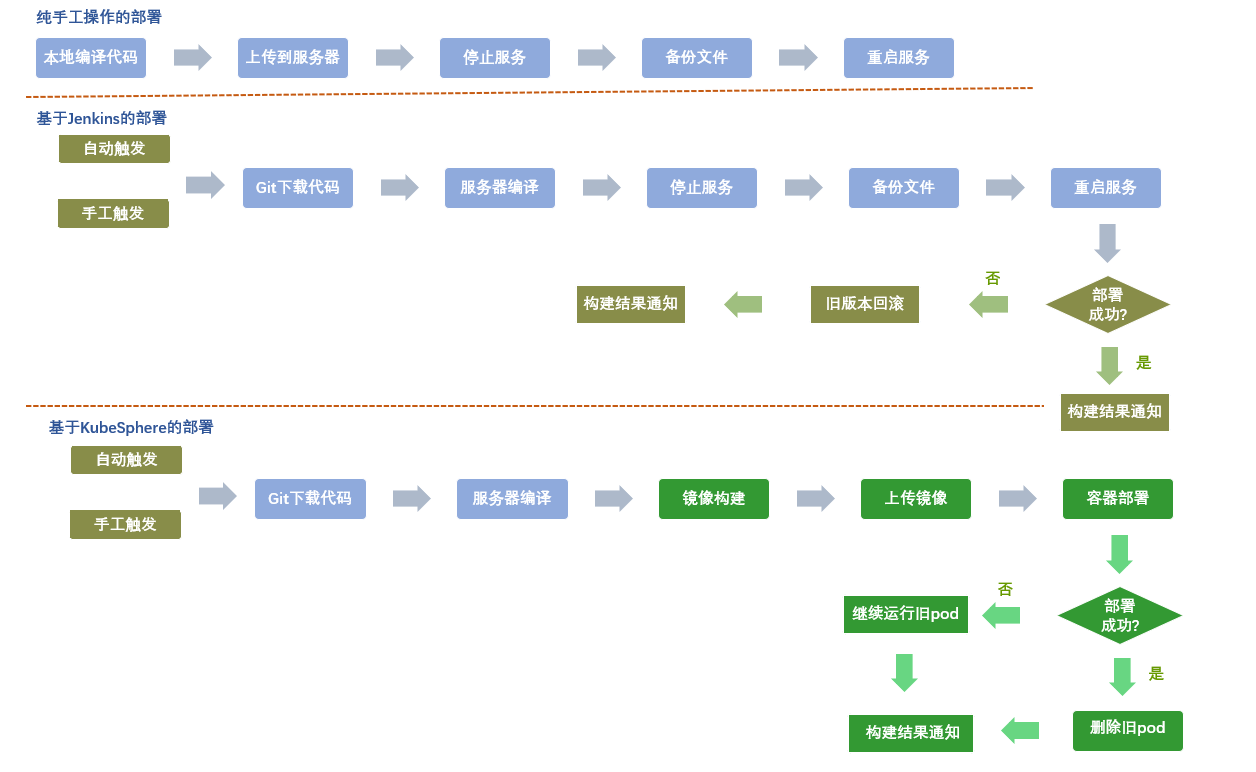
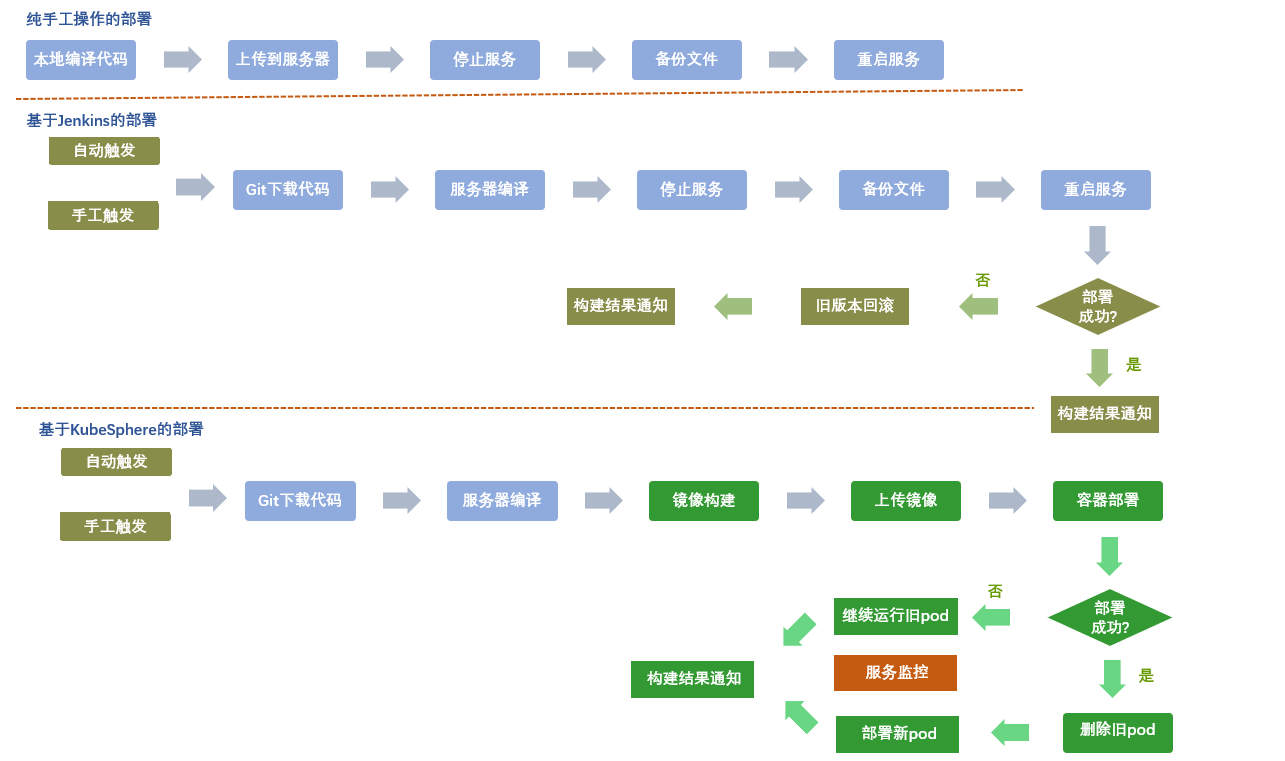
更新博文

Changed region(s): [[0.0, 0.0, 0.9626, 0.9974]]

diff --git a/content/post/devops/share-kubepshere-using-experience-for-current-company.md b/content/post/devops/share-kubepshere-using-experience-for-current-company.md
@@ -13,7 +13,7 @@ author: "Rosen Lu"
 # P.S. comment can only be closed
 comment: true
 toc: true
-autoCollapseToc: false
+autoCollapseToc: true
 postMetaInFooter: false
 hiddenFromHomePage: false
 # You can also define another contentCopyright. e.g. contentCopyright: "This is another copyright."
@@ -57,20 +57,66 @@ sequenceDiagrams:
 * 缺乏监控功能，后续不同团队、项目采用的监控方案不统一，不利于知识的积累
 * 不同客户的定制化功能太多(logo,字体，ip地址，业务逻辑等)，采用手工打包的方式效率低，容易遗漏
 
-基于上述原因，部门准备选用网络上开源的系统来尽可能的解决上述痛点，在技术选型时有如下考量点：
+在竞争日益激烈的市场环境下，**公司需要把有限的人力资源优先用于业务迭代开发**，解决上述问题变得愈发迫切。
+
+# 选型说明
+
+基于前述原因，部门准备选用网络上开源的系统来尽可能的解决上述痛点，在技术选型时有如下考量点：
 
 * 采用尽量少的系统，最好一套系统能解决前述所有问题，避免多个系统维护和整合的成本
+* 采用开源版本，避免公司内部手工开发，节约人力
 * 安装过程简洁，不需要复杂的操作，能支持离线安装
 * 文档丰富、社区活跃、使用人员较多，遇到问题能较容易的找到答案
-* 受限于部门预算，尽量使用开源版本，使用成熟后可考虑商业版本
+* 支持容器化部署，公司和部门的业务中自动驾驶和云仿真相关的越来越多，此部分对算力和资源提出了更高的要求
 
-# 实践过程
+最开始采用的是[Jenkins](https://www.jenkins.io/)，通过`Jenkins`基本上能解决我们90%的问题，但依旧有如下问题影使用体验:
+
+* 对于云原生支持不太好，不利于部门后续云仿真相关的业务使用
+* UI界面简陋，交互方式不友好(项目构建日志输出等)
+* 对于项目，资源的权限分配与隔离过于简陋，不满足多项目多部门使用时细粒度的区分要求
+
+在网络上查找后发现类似的工具有很多，经过初步对比筛选后倾向于`KubeSphere`、[Walle](https://github.com/meolu/walle-web)，[Zadig](https://koderover.com/)这2款产品，它们的基本功能都类似，进一步对比如下：
+
+|                  | KubeSphere |        Zadig         |
+| ---------------- | :--------: | :------------------: |
+| **云原生支持**   |   **高**   |         一般         |
+| **UI美观度**     |   **高**   |         一般         |
+| **GitHub Star**  | **12.4k**  |          2k          |
+| **社区活跃度**   |   **高**   |         一般         |
+| **知名使用客户** |  去哪儿网  | **飞书、腾讯、华为** |
+
+`KubeSphere`在多个指标上优于`Zadig`，但在使用客户上没有像`Zadig`这么多知名的客户，不过我们的第一考量点还是能否满足自身要求，结合上述对比指标，尤其是`KubeSphere`的UI界面十分美观比`Zadig`强很多，故最终选定`KubeSphere`作为部门内部的持续集成与容器化管理系统！
+
+
+
+至此，部门内部经历了`手工操作`->`Jenkins`->`KubeSphere`这3个阶段，各阶段的主要使用点如下：
 
 ![不同类型的构建方式比较](/blog_img/devops/share-kubepshere-using-experience-for-current-company/different-type-of-deploy-compare.png "不同类型的构建方式比较") 
 
+# 实践过程
+
+## 自动化部署
+
+## 自动化监控
+
+## 集成审核功能
+
+## 软件交互标准化
+
+
+
 # 使用效果
 
+部分同事习惯于原始的手工操作或基于`docker`部署，导致在推广过程中受到了一定的阻力，部门内部基于充分沟通和逐步替换的方式引导相关同事来慢慢适应。经过约一年的时间磨合，大家都认可了拥抱云原生和`KubeSphere`给我们带来的便利。
 
+对我司而言，有如下几个方面的提升:
+
+* 研发人员几乎不用耗费时间在软件的部署和监控上，节省约20%时间，产品迭代速度更快
+* 定制化的功能通过脚本实现，彻底杜绝了给客户交付软件时由于人工疏漏导致的偶发问题，在提高软件交付质量的同时也提升了客户我司的认可度
+* 软件开发、测试流程更规范，通过在`Jenkins`流水线强制添加各种规范检查和审核流程，实现了软件研发的规范统一，代码质量更高，更利于扩展维护，同时也在一定程序上减少了由于人员流失/变更对项目造成的影响
+* 基于`KubeSphere`的云原生部署结合`Nacos`可以更快速的分配多套环境，有效的实现了`开发`、`测试`、`生产`环境的隔离，在云仿真相关的业务场景中可基于业务场景更方便的对`pod`进行监控与调整，前瞻性的业务研发开展更顺利
+
+![日常开发中采用KubeSphere进行集成](/blog_img/devops/share-kubepshere-using-experience-for-current-company/using-kubesphere-to-deploy.png "日常开发中采用KubeSphere进行集成") 
 
 # 规划&反馈
 
@@ -78,10 +124,10 @@ sequenceDiagrams:
 
 结合公司与部门的实际情况，短期的规划依然是完善基于`Jenkins`的`CI`/`CD`使用来完善打包与部署流程，部门内部在进行全面`web`化，基于此中长期拥抱云原生。
 
-* 接入企业微信，将构建与运行结果随时通知相关人
+* 接入企业微信，将构建与运行结果随时通知相关人，构建结果与项目监控更实时
 * 将部门内部基于`Eclipse RCP`的桌面应用程序通过`Jenkins`实现标准化与自动化的构建
-* 部门内部的`web`项目全部通过`KubeSphere`构建部署，完善其使用文档，挖掘`KubeSphere`在部门业务中新的应用场景
 * 将底层的`Kubernetes`从单机升级为集群，支持更多`pod`的部署，支持公司内部需要大量`pod`并发运行的云仿真项目
+* 部门内部的`web`项目全部通过`KubeSphere`构建部署，完善其使用文档，挖掘`KubeSphere`在部门业务中新的应用场景(如对设计文档、开发文档、bug修复的定时与强制检查通知等)
 
 ## 问题反馈
 
@@ -101,7 +147,7 @@ sequenceDiagrams:
 
      ![非admin角色无法看见终端](/blog_img/devops/share-kubepshere-using-experience-for-current-company/no-admin-role-can-not-see-terminal.png "非admin角色无法看见终端") 
 
-   * 公司网络环境多变且随着使用项目的增多，经常需要备份/迁移，目前的方式是手工备份`Jenkins`文件，但在`Jenkins`流水线构建参数无法体现在`Jenkins`流水线中，每次备份/迁移后都需要手工创建参数
+   * 公司网络环境多变且随着使用项目的增多，经常需要备份/迁移，目前的方式是手工备份`Jenkins`文件，但在`Jenkins`流水线构建参数无法体现在`Jenkins`流水线中，每次备份/迁移后都需要手工创建参数,此问题是我们目前的一大痛点，个人感觉`Zadig`做的不错(这部分感觉`Zadig`也是`KubeSphere`的有力竞争者)
 
      ![有多个构建参数的流水线](/blog_img/devops/share-kubepshere-using-experience-for-current-company/jenkins-pipeline-with-multiple-parameters.png "有多个构建参数的流水线") 
 
